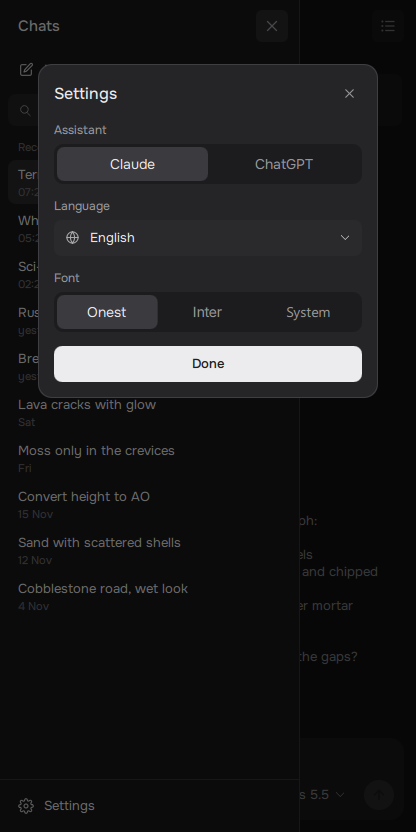
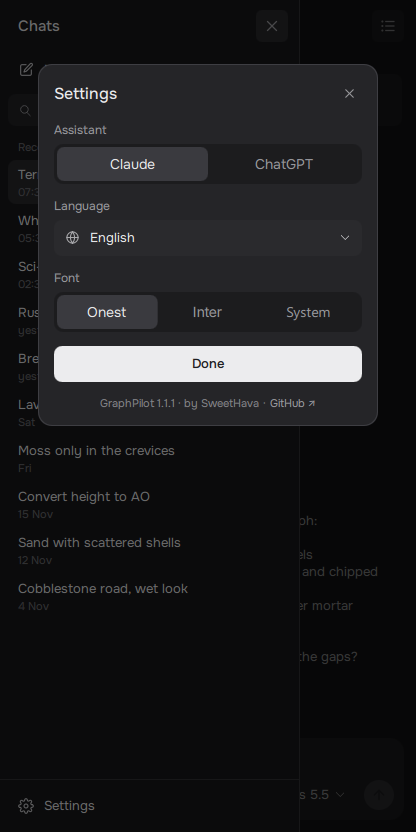
Settings: show version, author and repository link

Changed region(s): [[0.0938, 0.4688, 0.9062, 0.5312]]

diff --git a/graphpilot/graphpilot/chat.qml b/graphpilot/graphpilot/chat.qml
@@ -854,6 +854,34 @@ Rectangle {
                 Text { anchors.centerIn: parent; text: tx.done; color: "#1e1e20"; font.family: theme.font; font.pixelSize: 13; font.weight: Font.Medium }
                 MouseArea { id: doneMa; anchors.fill: parent; hoverEnabled: true; cursorShape: Qt.PointingHandCursor; onClicked: settings.open = false }
             }
+
+            // about: version, author, repo link
+            Row {
+                anchors.horizontalCenter: parent.horizontalCenter
+                spacing: 4
+                Text {
+                    text: "GraphPilot " + backend.version + " · by SweetHava"
+                    color: theme.dim; opacity: 0.8
+                    font.family: theme.font; font.pixelSize: 11
+                }
+                Text {
+                    text: "·"
+                    color: theme.dim; opacity: 0.8
+                    font.family: theme.font; font.pixelSize: 11
+                }
+                Text {
+                    text: "GitHub ↗"
+                    color: repoMa.containsMouse ? theme.text : theme.dim
+                    font.family: theme.font; font.pixelSize: 11
+                    font.underline: repoMa.containsMouse
+                    MouseArea {
+                        id: repoMa
+                        anchors.fill: parent; anchors.margins: -4
+                        hoverEnabled: true; cursorShape: Qt.PointingHandCursor
+                        onClicked: backend.openUrl(backend.repoUrl)
+                    }
+                }
+            }
         }
 
         // language list (drops down over the rest of the card)

diff --git a/graphpilot/graphpilot/chat_qml.py b/graphpilot/graphpilot/chat_qml.py
@@ -20,6 +20,18 @@ from . import agents
 from . import i18n
 
 HERE = os.path.dirname(os.path.abspath(__file__))
+REPO_URL = "https://github.com/sweethava/GraphPilot"
+
+
+def _plugin_version():
+    try:
+        with open(os.path.join(os.path.dirname(HERE), "pluginInfo.json"), encoding="utf-8") as f:
+            return str(json.load(f).get("version") or "")
+    except Exception:
+        return ""
+
+
+VERSION = _plugin_version()
 if os.environ.get("APPDATA"):
     DATA_DIR = os.path.join(os.environ["APPDATA"], "GraphPilot")
 elif sys.platform == "darwin":
@@ -484,6 +496,16 @@ class ChatBackend(QObject):
         return self._chat_model
 
     chatModel = Property(QObject, _get_chat_model, constant=True)
+
+    def _get_version(self):
+        return VERSION
+
+    version = Property(str, _get_version, constant=True)
+
+    def _get_repo_url(self):
+        return REPO_URL
+
+    repoUrl = Property(str, _get_repo_url, constant=True)
 
     def _load_index(self):
         """Read the small index file; rebuild it from chat files only when it's missing or stale."""

diff --git a/CHANGELOG.md b/CHANGELOG.md
@@ -1,5 +1,9 @@
 # Changelog
 
+## Unreleased
+
+- Settings: version, author and a link to the GitHub repository.
+
 ## 1.1.1 — 2026-11-24
 
 - Security: the local Designer bridge now requires a per-session random token (stored in `bridge.json` in the GraphPilot data folder). Other users and programs without access to your profile can no longer run code in Designer.
